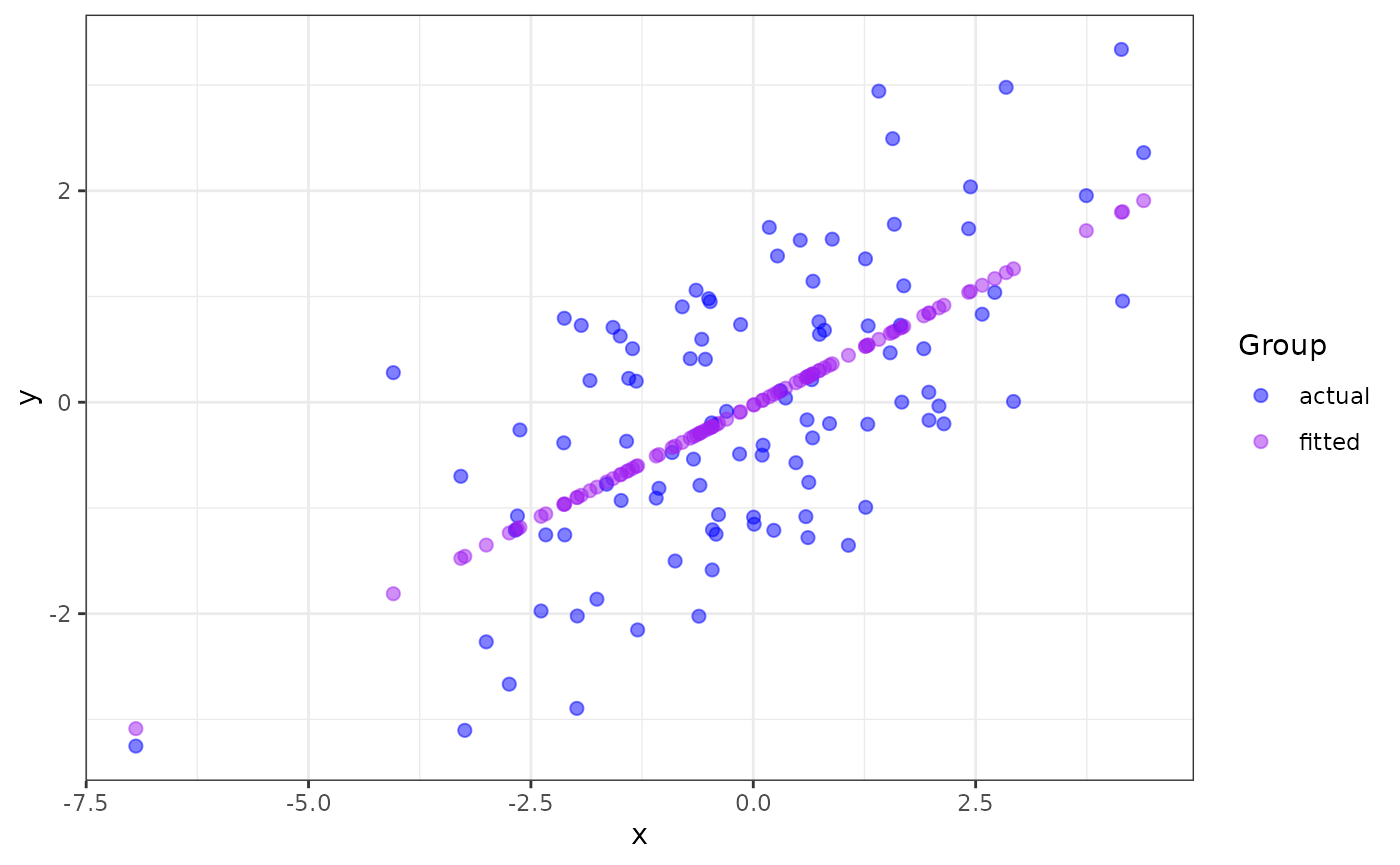
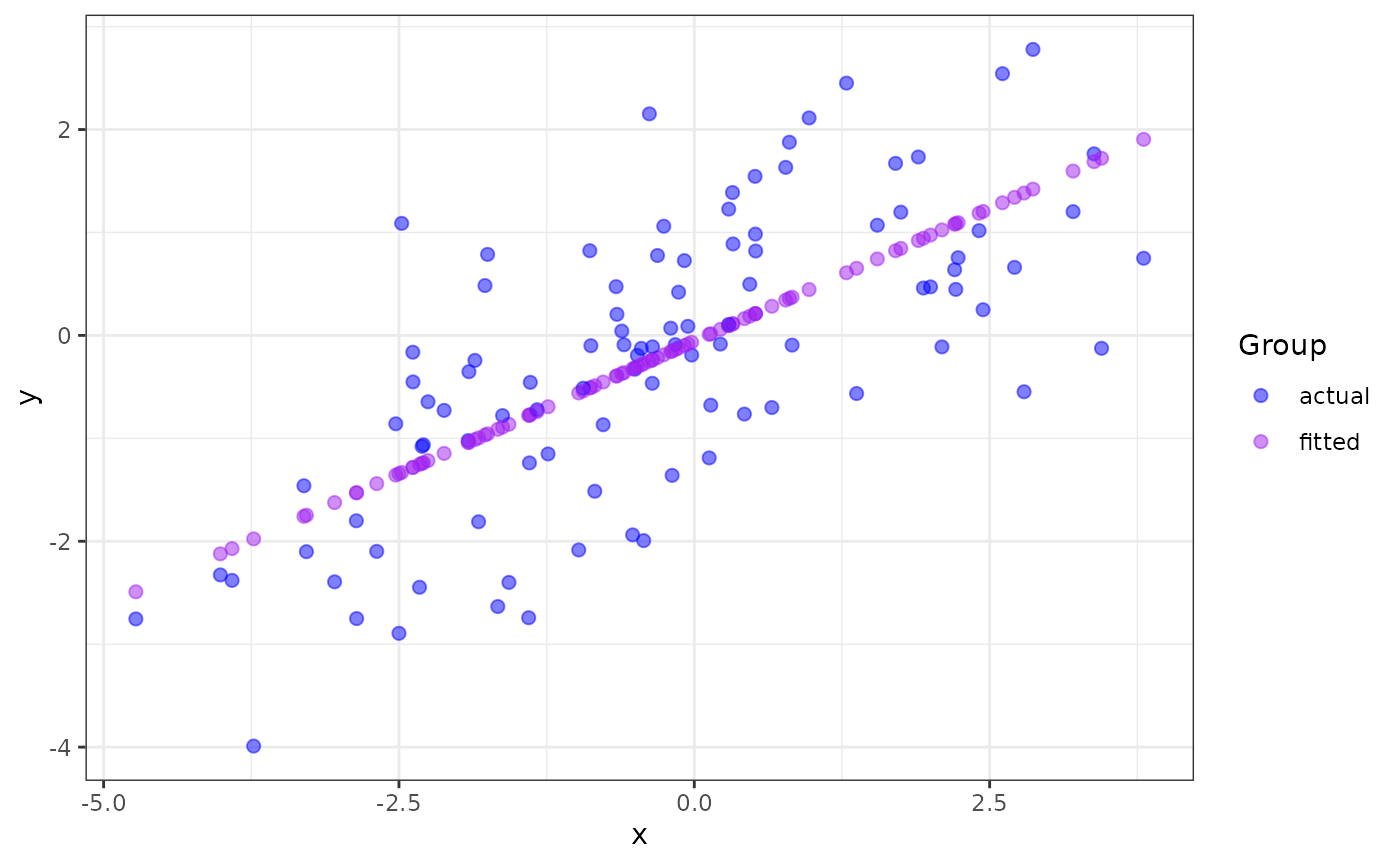
Built site for ggmatplot: 0.1.1@79c4019

diff --git a/articles/ggmatplot.html b/articles/ggmatplot.html
@@ -103,8 +103,7 @@
 <span class="va">x</span> <span class="op">&lt;-</span> <span class="fu"><a href="https://rdrr.io/r/base/c.html" class="external-link">c</a></span><span class="op">(</span><span class="fu"><a href="https://rdrr.io/r/stats/Normal.html" class="external-link">rnorm</a></span><span class="op">(</span><span class="fl">100</span>, sd <span class="op">=</span> <span class="fl">2</span><span class="op">)</span><span class="op">)</span>
 
 <span class="fu"><a href="https://rdrr.io/r/utils/head.html" class="external-link">head</a></span><span class="op">(</span><span class="va">x</span><span class="op">)</span>
-<span class="co">#&gt; [1]  0.671214811  0.363502159  0.303884062  3.744133882  0.003485224</span>
-<span class="co">#&gt; [6] -4.046783807</span>
+<span class="co">#&gt; [1] -0.5023851  0.5170562 -3.9128086 -2.4998793 -1.5690095 -2.2542498</span>
 
 <span class="co"># matrix z</span>
 <span class="va">y</span> <span class="op">&lt;-</span> <span class="va">x</span> <span class="op">*</span> <span class="fl">0.5</span> <span class="op">+</span> <span class="fu"><a href="https://rdrr.io/r/stats/Normal.html" class="external-link">rnorm</a></span><span class="op">(</span><span class="fl">100</span>, sd <span class="op">=</span> <span class="fl">1</span><span class="op">)</span>
@@ -113,13 +112,13 @@
            fitted <span class="op">=</span> <span class="va">fit.y</span><span class="op">)</span>
 
 <span class="fu"><a href="https://rdrr.io/r/utils/head.html" class="external-link">head</a></span><span class="op">(</span><span class="va">z</span><span class="op">)</span>
-<span class="co">#&gt;        actual      fitted</span>
-<span class="co">#&gt; 1  1.14473511  0.26826632</span>
-<span class="co">#&gt; 2  0.03962904  0.13262219</span>
-<span class="co">#&gt; 3  0.10775121  0.10634168</span>
-<span class="co">#&gt; 4  1.95421547  1.62285291</span>
-<span class="co">#&gt; 5 -1.08659554 -0.02607841</span>
-<span class="co">#&gt; 6  0.27971275 -1.81149482</span></code></pre></div>
+<span class="co">#&gt;       actual     fitted</span>
+<span class="co">#&gt; 1 -0.3286337 -0.3140578</span>
+<span class="co">#&gt; 2  0.9842340  0.2111701</span>
+<span class="co">#&gt; 3 -2.3800934 -2.0711474</span>
+<span class="co">#&gt; 4 -2.8941920 -1.3431899</span>
+<span class="co">#&gt; 5 -2.3999749 -0.8635950</span>
+<span class="co">#&gt; 6 -0.6450821 -1.2166387</span></code></pre></div>
 <p><code>ggmatplot</code> plots vector <code>x</code> against each column of matrix <code>z</code> using the default <code>plot_type = "point"</code>. This will be represented on the resulting plot as two groups, identified using different shapes and colors.</p>
 <div class="sourceCode" id="cb2"><pre class="downlit sourceCode r">
 <code class="sourceCode R"><span class="kw"><a href="https://rdrr.io/r/base/library.html" class="external-link">library</a></span><span class="op">(</span><span class="va"><a href="https://github.com/xuan-liang/ggmatplot" class="external-link">ggmatplot</a></span><span class="op">)</span>
